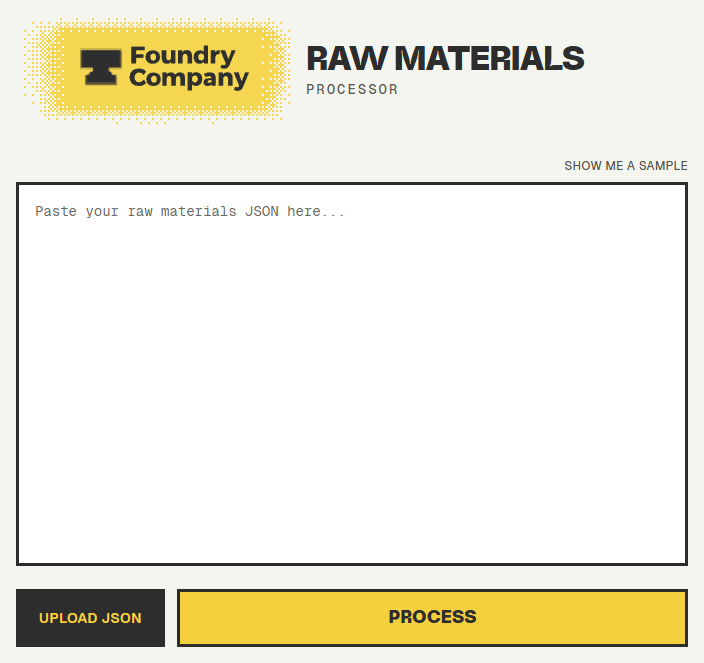
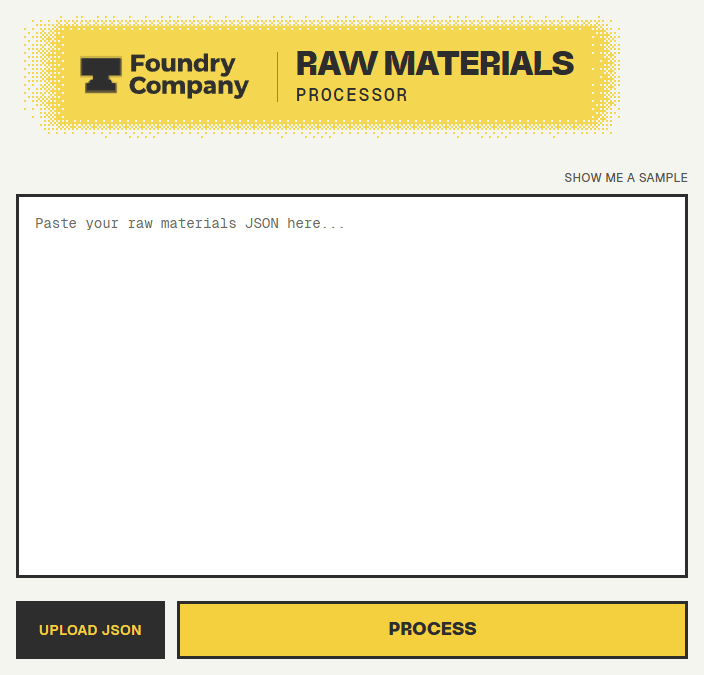
style: unite the Foundry mark and processor title on one dithered field (#6)

diff --git a/src/index.css b/src/index.css
@@ -3,6 +3,91 @@
 @tailwind utilities;
 
 @layer components {
+  .processor-header {
+    position: relative;
+    isolation: isolate;
+    display: flex;
+    align-items: center;
+    gap: 18px;
+    width: fit-content;
+    max-width: 100%;
+    min-height: 126px;
+    margin-bottom: 30px;
+    padding: 18px 46px 20px 54px;
+  }
+
+  .processor-header::before {
+    content: '';
+    position: absolute;
+    z-index: -1;
+    inset: 0;
+    pointer-events: none;
+    /* Tile the four dithered edges at native size around a solid yellow center. */
+    border: solid transparent;
+    border-width: 26px 34px 36px 64px;
+    border-image: url('/foundry-header-dither.png') 26 34 36 64 fill repeat;
+    image-rendering: pixelated;
+  }
+
+  .processor-title {
+    position: relative;
+    padding-left: 19px;
+    font-size: 34px;
+  }
+
+  .processor-title::before {
+    content: '';
+    position: absolute;
+    inset: 5px auto 3px 0;
+    width: 1px;
+    background: currentColor;
+    opacity: 0.45;
+  }
+
+  .processor-subtitle {
+    font-size: 18px;
+    letter-spacing: 0.1em;
+  }
+
+  @media (max-width: 635px) {
+    .processor-header {
+      gap: 12px;
+      padding-right: 36px;
+    }
+
+    .processor-title {
+      padding-left: 13px;
+      font-size: clamp(24px, calc(10vw - 30px), 34px);
+    }
+  }
+
+  @media (max-width: 535px) {
+    .processor-header {
+      flex-direction: column;
+      align-items: flex-start;
+      gap: 8px;
+      min-height: 0;
+      min-width: min(358px, 100%);
+      padding: 18px 25px 34px 54px;
+    }
+
+    .processor-title {
+      /* Align the title with the ink inside the wordmark's viewBox. */
+      margin-left: 10px;
+      padding-left: 0;
+      font-size: clamp(22px, calc(12vw - 16px), 32px);
+    }
+
+    .processor-title::before {
+      display: none;
+    }
+
+    .processor-subtitle {
+      font-size: 16px;
+      letter-spacing: 0.09em;
+    }
+  }
+
   .estimate-row {
     @apply grid grid-cols-[minmax(0,1fr)_3rem_4rem_4.5rem] gap-x-1 px-2 text-xs
       sm:grid-cols-[minmax(0,1fr)_4.5rem_7rem_5.5rem] sm:gap-x-4 sm:px-4 sm:text-sm;

diff --git a/src/components/Header.tsx b/src/components/Header.tsx
@@ -1,27 +1,24 @@
 export default function Header() {
   return (
-    <header className="flex flex-wrap items-center gap-x-4 gap-y-3 mb-8">
+    <header className="processor-header text-foundry-dark">
       <svg
         role="img"
         aria-label="Foundry Company"
-        width="274"
-        height="110"
-        viewBox="0 0 274 110"
-        className="shrink-0"
+        width="188.55"
+        height="64"
+        viewBox="0 0 274 93"
+        className="block shrink-0"
       >
-        <image href="/foundry-header-dither.png" width="274" height="110" imageRendering="pixelated" />
-        <svg x="54" y="20" width="188.55" height="64" viewBox="0 0 274 93">
-          <use href="/logo_wordmark.svg#wordmark" />
-        </svg>
+        <use href="/logo_wordmark.svg#wordmark" />
       </svg>
-      <div>
-        <h1 className="font-display text-[29px] sm:text-[34px] font-extrabold text-foundry-dark tracking-tight leading-none whitespace-nowrap">
+      <h1 className="processor-title whitespace-nowrap">
+        <span className="block font-display font-extrabold tracking-tight leading-none">
           RAW MATERIALS
-        </h1>
-        <h2 className="mt-1 font-mono text-sm font-medium text-[#595952] tracking-[.14em] leading-[1.4]">
+        </span>{' '}
+        <span className="processor-subtitle block mt-1 font-mono font-medium leading-[1.1]">
           PROCESSOR
-        </h2>
-      </div>
+        </span>
+      </h1>
     </header>
   );
 }
